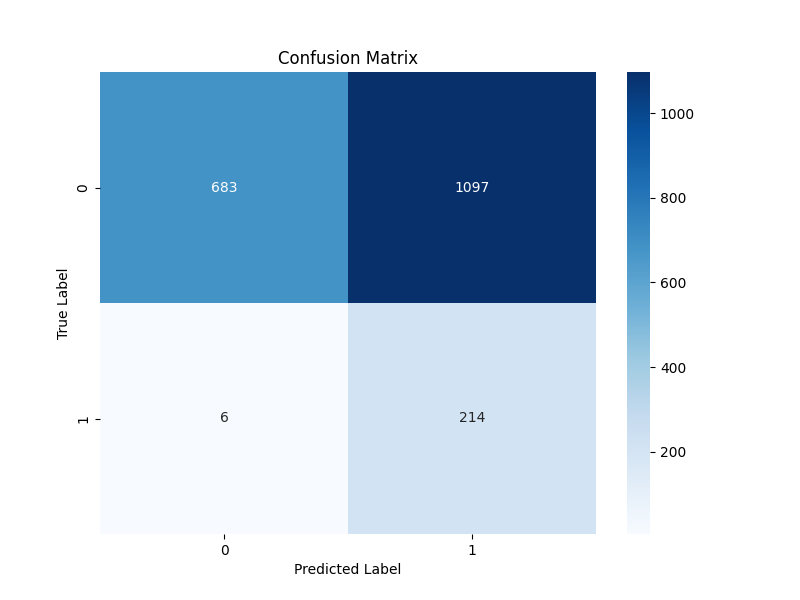
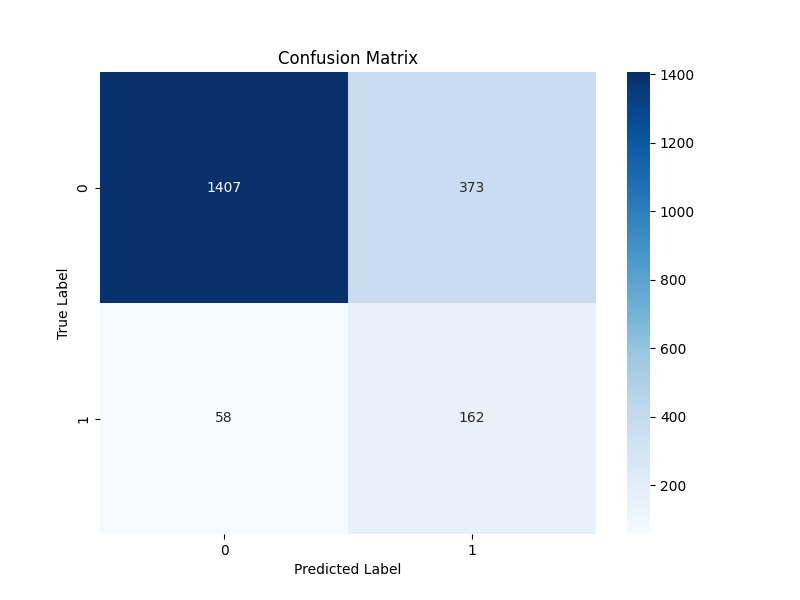
tuning

diff --git a/model_training.py b/model_training.py
@@ -122,7 +122,7 @@ def prepare_data():
             X_val, y_val,
             X_test, y_test)
 
-def train_model(X_train, y_train, X_val, y_val, batch_size=16, epochs=5):
+def train_model(X_train, y_train, X_val, y_val, batch_size=16, epochs=5, class_weights=None):
     """Huấn luyện mô hình"""
     # Khởi tạo tokenizer và dataset
     tokenizer = AutoTokenizer.from_pretrained("vinai/phobert-base")
@@ -140,7 +140,14 @@ def train_model(X_train, y_train, X_val, y_val, batch_size=16, epochs=5):
     
     # Định nghĩa optimizer và loss function
     optimizer = torch.optim.AdamW(model.parameters(), lr=2e-5)
-    class_weights = torch.tensor([1.0, 8.22], dtype=torch.float).to(device)
+    
+    if class_weights is None:
+        # Mặc định, sử dụng trọng số ban đầu nếu không được cung cấp
+        class_weights = torch.tensor([1.0, 8.22], dtype=torch.float).to(device)
+    else:
+        # Đảm bảo class_weights là tensor và chuyển sang device
+        class_weights = torch.tensor(class_weights, dtype=torch.float).to(device)
+        
     criterion = nn.CrossEntropyLoss(weight=class_weights)
     
     # Training loop
@@ -239,7 +246,8 @@ def main():
     
     # Huấn luyện mô hình
     print("\nBắt đầu huấn luyện mô hình...")
-    model = train_model(X_train, y_train, X_val, y_val)
+    # Thử nghiệm với trọng số lớp đã điều chỉnh (ví dụ: 1.0 cho non-toxic, 3.0 cho toxic)
+    model = train_model(X_train, y_train, X_val, y_val, class_weights=[1.0, 3.0])
     
     # Đánh giá mô hình
     print("\nĐánh giá mô hình trên tập test...")
